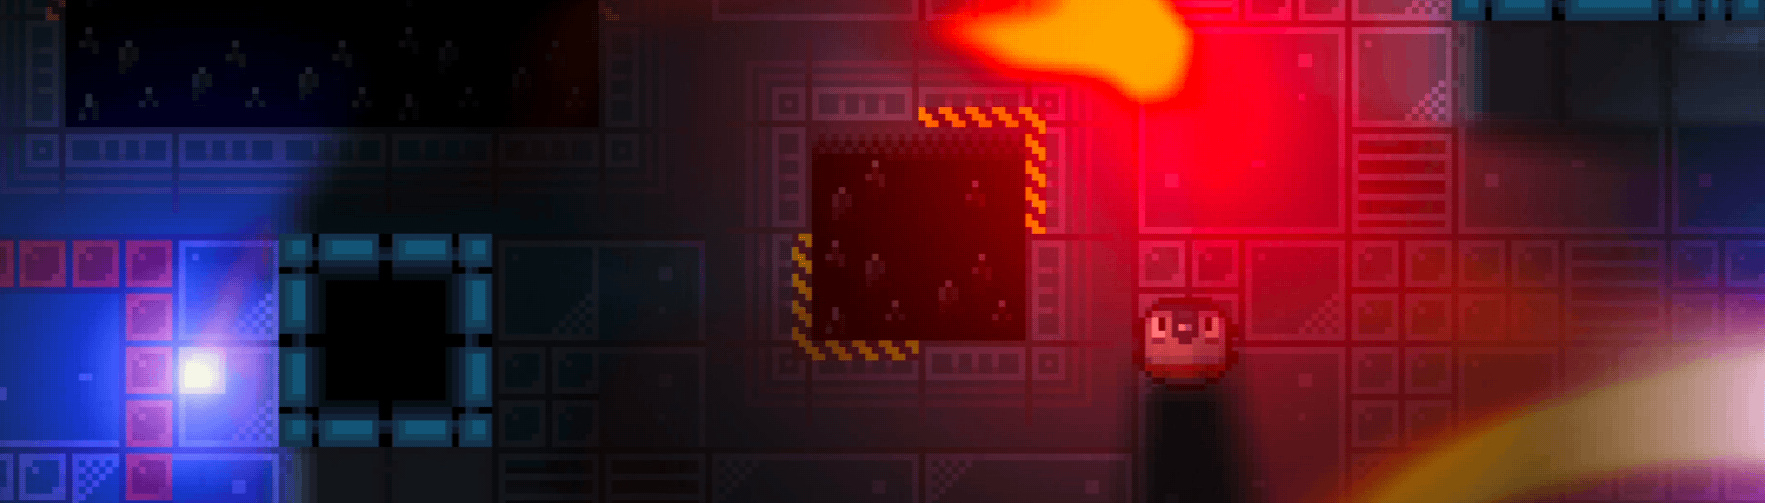
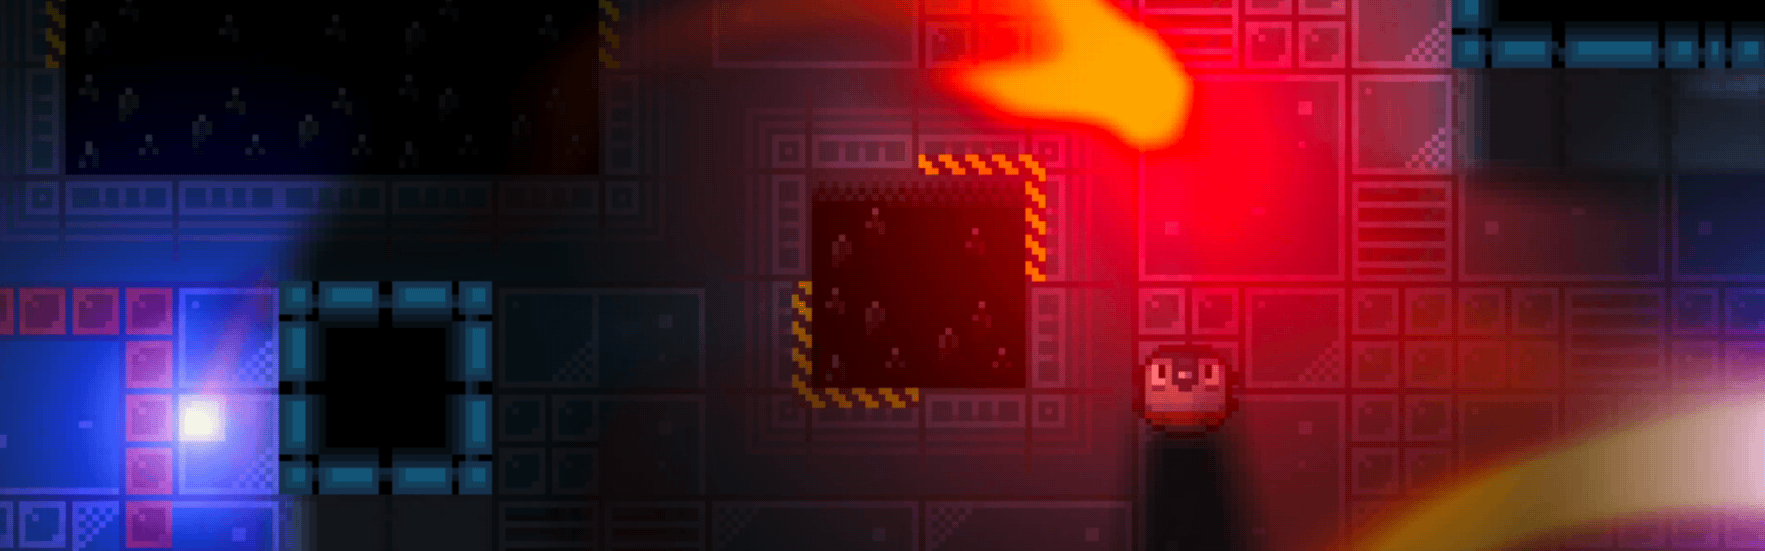
mocer

diff --git a/docs/src/components/Header/styles.module.css b/docs/src/components/Header/styles.module.css
@@ -10,16 +10,15 @@
 .heroBanner::before {
     content: "";
     position: absolute;
-    inset: -6%;
+    inset: 0%;
     background-image:
-            radial-gradient(circle at center, rgba(16, 16, 24, 0.55) 0%, rgba(10, 10, 16, 0.88) 100%),
+            radial-gradient(circle at center, rgba(16, 16, 24, 0.55) 40%, rgba(10, 10, 16, 0.88) 100%),
             url("@site/static/img/banner.png");
     background-size: cover;
     background-position: center;
     z-index: -1;
     will-change: transform, filter;
 
-    /* Seamless closed loop: 0% and 100% match so it never bounces or snaps */
     animation: sciFiDrift 24s ease-in-out infinite;
 }
 
